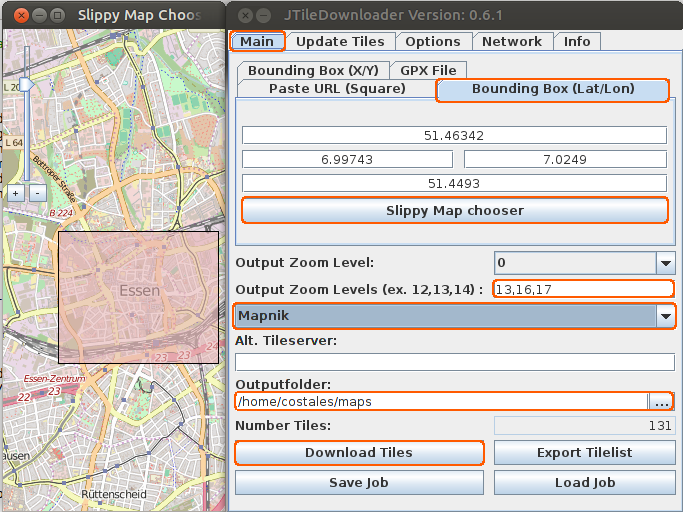
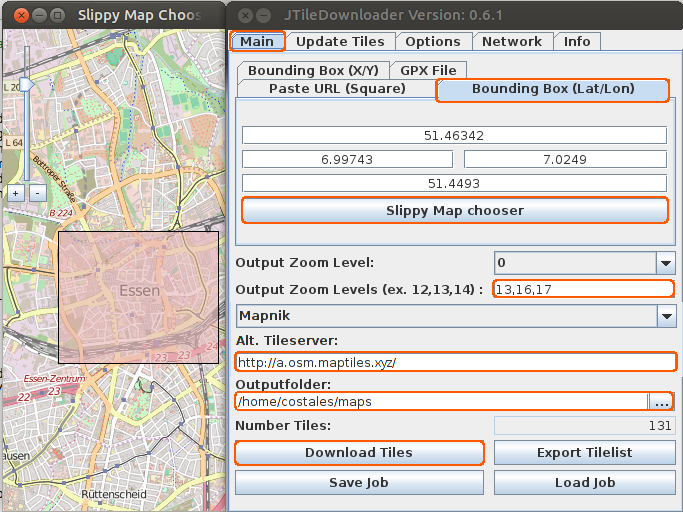
Adjusts

Changed region(s): [[0.3382, 0.5625, 1.0, 0.75]]

diff --git a/offline/index.html b/offline/index.html
@@ -69,9 +69,9 @@
     
     <li class="option-all animate-in">
       <h4>Download the map</h4>
-      <p><strong>Slippy Map chooser</strong> &gt; Choose the area to download.<br>Please, avoid to select so big areas.</p>
+      <p><strong>Slippy Map chooser</strong> &gt; Choose the area to download.<br>Please, avoid to select so big areas like a complete country!</p>
       <p><strong>Output Zoom Levels</strong>: You can download different maps in several times.<br>We would recommend you a zoom <em>16,17</em> for cities and a zoom <em>13</em> for not cities.</p>
-	  <p><strong>Map</strong>: Choose the map. A few of them are forgiven, OpenCycleMap and ThunderForest are working.</p>
+	  <p><strong>Alt. TileServer</strong>: Enter <em>http://a.osm.maptiles.xyz/</em></p>
       <p><strong>Outputfolder</strong>: Download folder, recommended <em>maps</em>.</p>
       <p>And just click on <strong>Download Tiles</strong> button.</p>
         <span><img src="files/jarea.png"></span>
@@ -99,7 +99,6 @@
       <h4>It's done |o/ Enjoy it!</h4>
       <p>Remember, this will allow offline maps, but not offline routing.</p>
       <p>Tip: If you don't see the map, you didn't download that zoom. FYI, when you click on map or search a place, the zoom is 17 and you should see that downloaded map.</p>
-      <p>We want to allow a direct download to entire countries and a download manager, but it will take so many time.</p>
     </li>
 
 
